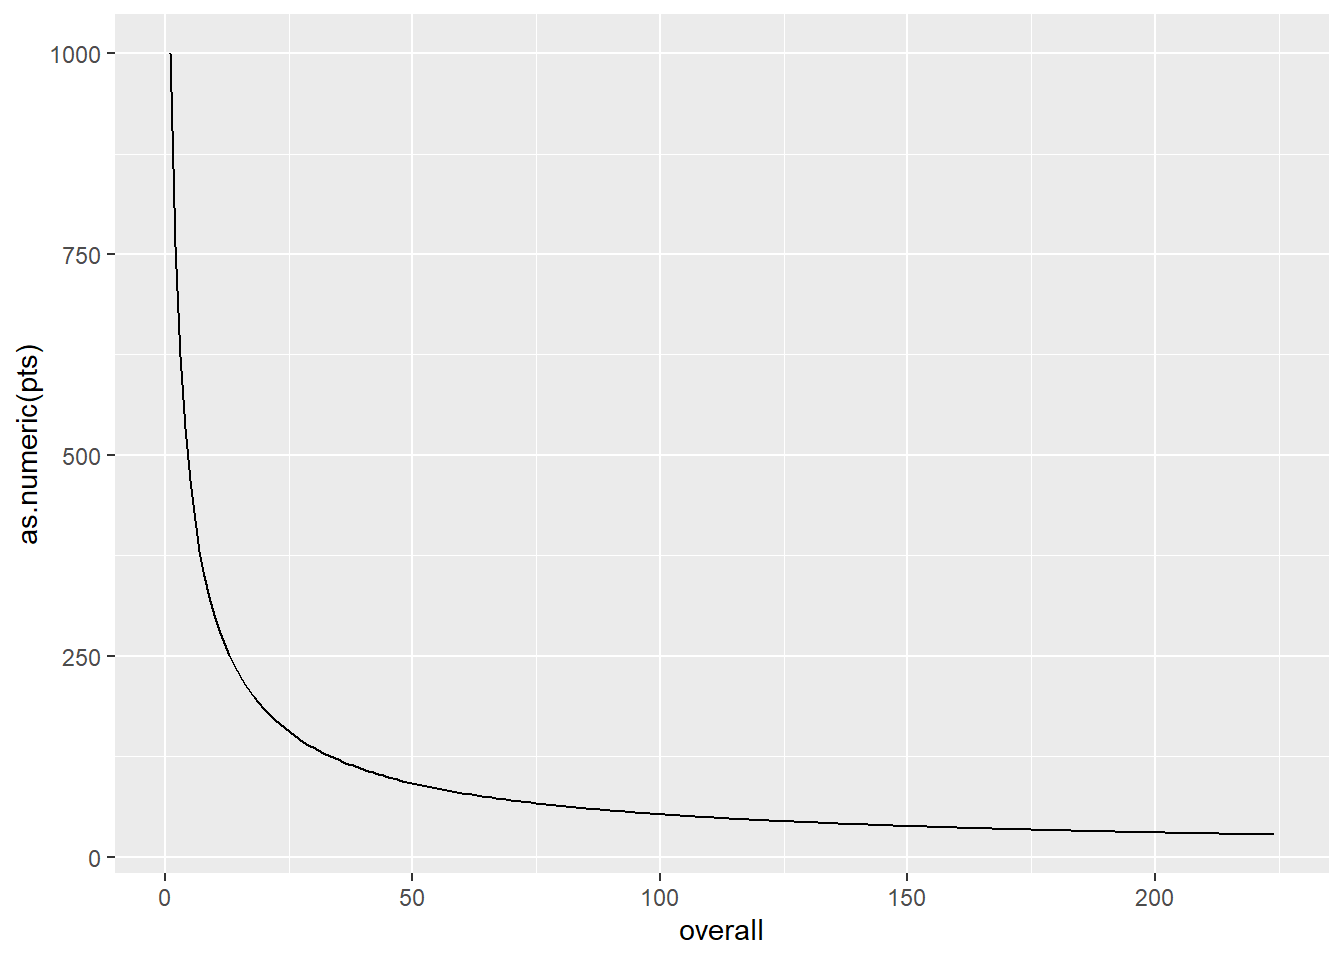
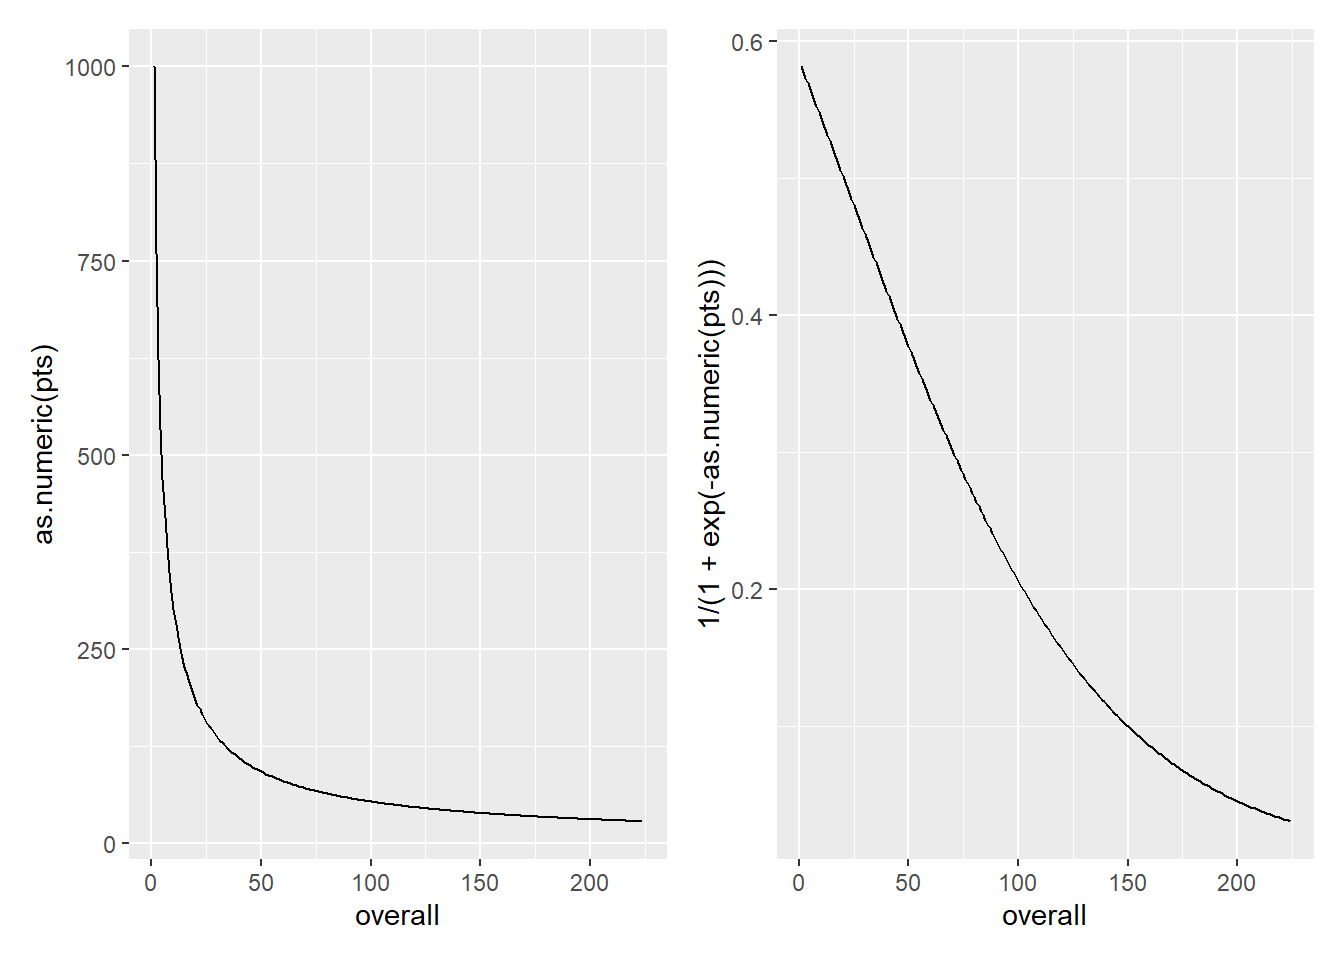
updated communicate

diff --git a/docs/communicate.html b/docs/communicate.html
@@ -103,6 +103,22 @@ pre > code.sourceCode > span > a:first-child::before { text-decoration: underlin
     "search-label": "Search"
   }
 }</script>
+<script src="site_libs/core-js-2.5.3/shim.min.js"></script>
+
+<script src="site_libs/react-18.2.0/react.min.js"></script>
+
+<script src="site_libs/react-18.2.0/react-dom.min.js"></script>
+
+<script src="site_libs/reactwidget-2.0.0/react-tools.js"></script>
+
+<link href="site_libs/htmltools-fill-0.5.8.1/fill.css" rel="stylesheet">
+
+<script src="site_libs/htmlwidgets-1.6.4/htmlwidgets.js"></script>
+
+<link href="site_libs/reactable-0.4.4/reactable.css" rel="stylesheet">
+
+<script src="site_libs/reactable-binding-0.4.4/reactable.js"></script>
+
 
 
 </head>
@@ -208,6 +224,7 @@ pre > code.sourceCode > span > a:first-child::before { text-decoration: underlin
   <li><a href="#setup" id="toc-setup" class="nav-link active" data-scroll-target="#setup"><span class="header-section-number">8.1</span> Setup</a></li>
   <li><a href="#shiny-apps" id="toc-shiny-apps" class="nav-link" data-scroll-target="#shiny-apps"><span class="header-section-number">8.2</span> Shiny Apps</a></li>
   <li><a href="#summary-of-results" id="toc-summary-of-results" class="nav-link" data-scroll-target="#summary-of-results"><span class="header-section-number">8.3</span> Summary of Results</a></li>
+  <li><a href="#things-to-do" id="toc-things-to-do" class="nav-link" data-scroll-target="#things-to-do"><span class="header-section-number">8.4</span> Things to do:</a></li>
   </ul>
 </nav>
     </div>
@@ -259,6 +276,7 @@ pre > code.sourceCode > span > a:first-child::before { text-decoration: underlin
 <h2 data-number="8.2" class="anchored" data-anchor-id="shiny-apps"><span class="header-section-number">8.2</span> Shiny Apps</h2>
 <p>As mentioned in the Model chapter, there are two shiny apps associated with this project. The first, linked <a href="https://trevsteu.shinyapps.io/nls_model_app/">here</a>, uses non-linear regression to make predictions based on the PS of future picks. If I was advising a team, this is the model I would suggest using. The second app, linked <a href="https://trevsteu.shinyapps.io/logist_model_app/">here</a>, uses logistic regression to make predictions based on the probability of future picks becoming NHL regulars. <u><strong>Disclaimer: adding probabilities in this manner is dubious at best from a statistical perspective,</strong></u> but <code>vetiver</code> does not support <code>nls</code> objects as mentioned in the Model chapter, so I needed to use a model from <code>lm</code> or <code>glm</code>, in order to satisfy many of the the devops requirements for this app.</p>
 <p>The apps differ only in the models they are based on (and their underlying code to access predictions). Thus the instructions for both apps are exactly the same, though the included screenshots are only for the app based on the model fit via non-linear regression.</p>
+<p>3 team trades are incredibly rare in the NHL so they are not directly included in the app, though they could be analyzed by looking at what each team individually receives and gives up (ie look at it in terms of 3 two team trades).</p>
 </section>
 <section id="summary-of-results" class="level2" data-number="8.3">
 <h2 data-number="8.3" class="anchored" data-anchor-id="summary-of-results"><span class="header-section-number">8.3</span> Summary of Results</h2>
@@ -267,7 +285,9 @@ pre > code.sourceCode > span > a:first-child::before { text-decoration: underlin
 <details class="code-fold">
 <summary>Code</summary>
 <div class="sourceCode cell-code" id="cb2"><pre class="sourceCode r code-with-copy"><code class="sourceCode r"><span id="cb2-1"><a href="#cb2-1" aria-hidden="true" tabindex="-1"></a><span class="fu">ggplot</span>(pred_vals_nls, <span class="fu">aes</span>(<span class="at">x =</span> overall, <span class="at">y =</span> <span class="fu">as.numeric</span>(pts))) <span class="sc">+</span> </span>
-<span id="cb2-2"><a href="#cb2-2" aria-hidden="true" tabindex="-1"></a>  <span class="fu">geom_line</span>()</span></code><button title="Copy to Clipboard" class="code-copy-button"><i class="bi"></i></button></pre></div>
+<span id="cb2-2"><a href="#cb2-2" aria-hidden="true" tabindex="-1"></a>  <span class="fu">geom_line</span>() <span class="sc">+</span> </span>
+<span id="cb2-3"><a href="#cb2-3" aria-hidden="true" tabindex="-1"></a><span class="fu">ggplot</span>(pred_vals_logist, <span class="fu">aes</span>(<span class="at">x =</span> overall, <span class="at">y =</span> <span class="dv">1</span><span class="sc">/</span>(<span class="dv">1</span><span class="sc">+</span><span class="fu">exp</span>(<span class="sc">-</span><span class="fu">as.numeric</span>(pts))))) <span class="sc">+</span> </span>
+<span id="cb2-4"><a href="#cb2-4" aria-hidden="true" tabindex="-1"></a>  <span class="fu">geom_line</span>()</span></code><button title="Copy to Clipboard" class="code-copy-button"><i class="bi"></i></button></pre></div>
 </details>
 <div class="cell-output-display">
 <div>
@@ -276,74 +296,38 @@ pre > code.sourceCode > span > a:first-child::before { text-decoration: underlin
 </figure>
 </div>
 </div>
+</div>
+<p>We also provide a table of all predicted pick values based on the models.</p>
+<div class="cell">
 <details class="code-fold">
 <summary>Code</summary>
-<div class="sourceCode cell-code" id="cb3"><pre class="sourceCode r code-with-copy"><code class="sourceCode r"><span id="cb3-1"><a href="#cb3-1" aria-hidden="true" tabindex="-1"></a><span class="fu">ggplot</span>(pred_vals_logist, <span class="fu">aes</span>(<span class="at">x =</span> overall, <span class="at">y =</span> <span class="dv">1</span><span class="sc">/</span>(<span class="dv">1</span><span class="sc">+</span><span class="fu">exp</span>(<span class="sc">-</span><span class="fu">as.numeric</span>(pts))))) <span class="sc">+</span> </span>
-<span id="cb3-2"><a href="#cb3-2" aria-hidden="true" tabindex="-1"></a>  <span class="fu">geom_line</span>()</span></code><button title="Copy to Clipboard" class="code-copy-button"><i class="bi"></i></button></pre></div>
+<div class="sourceCode cell-code" id="cb3"><pre class="sourceCode r code-with-copy"><code class="sourceCode r"><span id="cb3-1"><a href="#cb3-1" aria-hidden="true" tabindex="-1"></a><span class="fu">reactable</span>(<span class="fu">data.frame</span>(<span class="fu">cbind</span>(pred_vals_nls, </span>
+<span id="cb3-2"><a href="#cb3-2" aria-hidden="true" tabindex="-1"></a>                           <span class="dv">1</span><span class="sc">/</span>(<span class="dv">1</span><span class="sc">+</span><span class="fu">exp</span>(<span class="sc">-</span>pred_vals_logist[<span class="dv">2</span>])))))</span></code><button title="Copy to Clipboard" class="code-copy-button"><i class="bi"></i></button></pre></div>
 </details>
 <div class="cell-output-display">
-<div>
-<figure class="figure">
-<p><img src="communicate_files/figure-html/unnamed-chunk-2-2.png" class="img-fluid figure-img" width="672"></p>
-</figure>
+<div class="reactable html-widget html-fill-item" id="htmlwidget-2a28f9ac9c2df5c90699" style="width:auto;height:auto;"></div>
+<script type="application/json" data-for="htmlwidget-2a28f9ac9c2df5c90699">{"x":{"tag":{"name":"Reactable","attribs":{"data":{"overall":[1,2,3,4,5,6,7,8,9,10,11,12,13,14,15,16,17,18,19,20,21,22,23,24,25,26,27,28,29,30,31,32,33,34,35,36,37,38,39,40,41,42,43,44,45,46,47,48,49,50,51,52,53,54,55,56,57,58,59,60,61,62,63,64,65,66,67,68,69,70,71,72,73,74,75,76,77,78,79,80,81,82,83,84,85,86,87,88,89,90,91,92,93,94,95,96,97,98,99,100,101,102,103,104,105,106,107,108,109,110,111,112,113,114,115,116,117,118,119,120,121,122,123,124,125,126,127,128,129,130,131,132,133,134,135,136,137,138,139,140,141,142,143,144,145,146,147,148,149,150,151,152,153,154,155,156,157,158,159,160,161,162,163,164,165,166,167,168,169,170,171,172,173,174,175,176,177,178,179,180,181,182,183,184,185,186,187,188,189,190,191,192,193,194,195,196,197,198,199,200,201,202,203,204,205,206,207,208,209,210,211,212,213,214,215,216,217,218,219,220,221,222,223,224],"pts":[1000.00000003068,759.88263459784,623.422550997806,533.236491832556,468.42533860006,419.245655744476,380.462563554153,348.98431685569,322.855645217064,300.773940333161,281.835015128539,265.389982800151,250.960141303542,238.18402679925,226.78321768851,216.539533444094,207.279408467355,198.862924476837,191.175949484409,184.124397768363,177.629968513428,171.626934749507,166.059690961125,160.880857108363,156.049796401314,151.531444654721,147.295377012536,143.315057444463,139.56723036669,136.031423791417,132.689540740872,129.525521068033,126.525059854933,123.675371590677,120.964991632787,118.383608217804,115.921919647342,113.571512333655,111.324756217301,109.174714722742,107.115066936087,105.140040102918,103.244350876353,101.423154013583,99.671997436675,97.9867827507735,96.363730458103,94.7993492257302,93.2904086637942,91.8339151528763,90.427090327442,89.0673518793576,87.7522963933762,86.4796839668106,85.2474243996743,84.0535647704456,82.8962782371495,81.7738539243813,80.6846877747907,79.6272742588842,78.6001988501997,77.6021311842715,76.6318188296334,75.6880816076109,74.7698064050466,73.8759424305263,73.005496870281,72.1575309048378,71.3311560517805,70.5255308037454,69.739857534085,68.9733796455457,68.2253789398773,67.4951731885622,66.7821138868666,66.0855841751973,65.4049969133358,64.7397928945274,64.0894391876642,63.4534275969183,62.8312732291862,62.2225131606004,61.6267051941707,61.043426701336,60.4722735408582,59.9128590490719,59.3648130960294,58.8277812025549,58.3014237136494,57.7854150240753,57.2794428522999,56.7832075592949,56.296421508976,55.8188084673299,55.3501030375133,54.8900501284229,54.4384044544376,53.9949300642067,53.5593998965297,53.1315953615176,52.7113059453641,52.2983288371838,51.8924685764832,51.4935367199428,51.1013515262793,50.715737658049,50.3365258993355,49.9635528883369,49.59666086394,49.2356974254317,48.8805153045546,48.5309721491723,48.1869303178545,47.8482566847434,47.5148224541021,47.1865029839867,46.8631776185211,46.5447295282845,46.2310455583585,45.9220160836032,45.6175348707643,45.3174989470358,45.021808474727,44.7303666317031,44.4430794972914,44.1598559433618,43.8806075303083,43.6052484076758,43.3336952191901,43.0658670119641,42.8016851496676,42.541073229458,42.2839570024829,42.030264297776,41.7799249493779,41.532870726522,41.2890352667365,41.0483540117195,40.8107641458547,40.5762045372402,40.3446156811114,40.1159396455439,39.890120019331,39.667101861933,39.4468316554029,39.2292572581976,39.0143278607892,38.8019939429933,38.5922072329377,38.384920667599,38.1800883548351,37.9776655368499,37.7776085550259,37.579874816065,37.384422759382,37.1912118256951,37.000202426764,36.8113559162252,36.6246345614793,36.4400015165855,36.257420796121,36.0768572499665,35.8982765389779,35.7216451115095,35.5469301807524,35.3740997028568,35.2031223558052,35.0339675190072,34.8666052535869,34.7010062833359,34.5371419763047,34.3749843270092,34.2145059392266,34.0556800093595,33.8984803103447,33.7428811760874,33.5888574864004,33.4363846524282,33.2854386025396,33.135995768669,32.9880330730924,32.8415279156196,32.6964581611885,32.5528021278471,32.4105385751076,32.2696466926613,32.1301060894389,31.9918967830062,31.8549991892814,31.7193941125631,31.5850627358592,31.451986611504,31.320147652056,31.1895281214636,31.060110626493,30.9318781084059,30.8048138348807,30.6789013921683,30.5541246774742,30.4304678915593,30.307915531553,30.18645238397,30.0660635179258,29.9467342785423,29.8284502805394,29.7111974020046,29.5949617783365,29.4797297963547,29.3654880885731,29.2522235276284,29.1399232208621,29.0285745050483,28.9181649412646,28.8086823099,28.7001146057977,28.5924500335255,28.4856770027736,28.379784123872,28.2747602034267,28.1705942400699,28.0672754203206,27.9647931145527,27.8631368730668,27.7622964222636],"pts.1":[0.581729929380447,0.577598502615973,0.573456189689531,0.569303545292336,0.565141129863313,0.560969509297288,0.556789254646768,0.552600941817649,0.548405151259165,0.544202467648437,0.539993479569976,0.535778779190498,0.531558961929437,0.527334626125535,0.523106372699903,0.518874804815954,0.514640527536611,0.510404147479208,0.506166272468495,0.501927511188171,0.497688472831373,0.493449766750534,0.489212002107055,0.484975787521209,0.480741730722699,0.47651043820231,0.472282514865069,0.46805856368534,0.463839185364256,0.459624977989924,0.45541653670079,0.451214453352561,0.4470193161891,0.442831709517647,0.438652213388765,0.434481403281361,0.430319849793148,0.426168118336883,0.422026768842721,0.417896355466996,0.41377742630775,0.409670523127285,0.405576181082038,0.401494928460032,0.397427286426156,0.393373768775514,0.389334881695063,0.385311123533746,0.381302984581298,0.377310946855923,0.373335483900971,0.36937706059078,0.36543613294579,0.36151314795705,0.357608543420202,0.353722747779022,0.349856179978576,0.346009249328039,0.342182355373196,0.338375887778649,0.334590226219716,0.330825740284017,0.327082789382697,0.323361722671263,0.319662878979944,0.315986586753535,0.3123331640006,0.30870291825197,0.30509614652839,0.301513135317222,0.297954160558045,0.294419487637016,0.290909371389837,0.287424056113156,0.283963775584239,0.280528753088711,0.277119201456195,0.273735323103633,0.270377310086095,0.267045344154864,0.263739596822566,0.260460229435142,0.257207393250424,0.253981229523076,0.250781869595691,0.247609434995776,0.244464037538404,0.241345779434293,0.238254753403055,0.23519104279138,0.232154721695914,0.229145855090577,0.226164498958085,0.22321070042543,0.220284497903075,0.217385921227627,0.214514991807752,0.211671722773085,0.208856119125921,0.206068177895441,0.203307888294256,0.200575231877043,0.197870182701056,0.195192707488297,0.192542765789139,0.189920310147192,0.187325286265216,0.184757633171881,0.182217283389191,0.179704163100377,0.177218192318089,0.174759285052704,0.172327349480593,0.169922288112172,0.167543997959586,0.165192370703878,0.162867292861491,0.160568645949964,0.158296306652694,0.156050146982633,0.15383003444479,0.151635832197438,0.149467399211898,0.147324590430808,0.145207256924768,0.143115246047278,0.141048401587865,0.139006563923333,0.136989570167049,0.13499725431619,0.133029447396889,0.13108597760722,0.12916667045796,0.127271348911067,0.12539983351585,0.123551942542758,0.121727492114774,0.119926296336362,0.118148167419948,0.116392915809896,0.11466035030397,0.112950278172254,0.111262505273516,0.109596836169004,0.107953074233674,0.106331021764823,0.104730480088152,0.10315124966124,0.10159313017444,0.100055920649201,0.0985394195338297,0.0970434247966932,0.0955677340168878,0.0941121444723805,0.0926764532256465,0.0912604572068191,0.0898639532943757,0.0884867383933819,0.0871286095113194,0.0857893638315238,0.0844687987842601,0.0831667121154649,0.0818829019531867,0.0806171668717542,0.0793693059537061,0.078139118849516,0.0769264058351455,0.0757309678674626,0.0745526066375586,0.0733911246220023,0.0722463251320666,0.0711180123609654,0.0700059914291396,0.068910068427628,0.0678300504595638,0.0667657456798339,0.0657169633329397,0.0646835137890995,0.0636652085786288,0.0626618604246407,0.0616732832741021,0.0606992923272861,0.0597397040656593,0.0587943362782409,0.0578630080864736,0.0569455399676427,0.0560417537768825,0.0551514727678058,0.0542745216117947,0.0534107264159888,0.0525599147400073,0.0517219156114406,0.050896559540147,0.0500836785313893,0.049283106097846,0.0484946772705312,0.0477182286086559,0.0469535982084651,0.0462006257110816,0.0454591523093899,0.0447290207539907,0.0440100753582566,0.0433021620025206,0.0426051281374256,0.0419188227864649,0.0412430965477427,0.0405778015949805,0.0399227916778006,0.0392779221213091,0.0386430498250085,0.038018033261063,0.0374027324719431,0.0367970090674736,0.0362007262213087,0.0356137486668577,0.0350359426926853,0.0344671761374061,0.0339073183840985,0.0333562403542563,0.0328138145012999,0.0322799148036674,0.0317544167575045,0.0312371973689725,0.0307281351461935]},"columns":[{"id":"overall","name":"overall","type":"numeric"},{"id":"pts","name":"pts","type":"list"},{"id":"pts.1","name":"pts.1","type":"numeric"}],"dataKey":"205a73d23d31974f3f9edfda6350f22d"},"children":[]},"class":"reactR_markup"},"evals":[],"jsHooks":[]}</script>
 </div>
 </div>
-</div>
-<p>This is a placeholder for my communicate chapter and will eventually have plots, tables, etc.</p>
-<p>This chapter will contain my table, graph, value + pick functions, and instructions for and a link to my shiny app. In my RShiny app, I plan to allow users to enter potential trades, click “evaluate”, and then see the point gain/loss. Additionally, I’d like to put the point difference into context “this is equivalent to team A giving up the 174th overall pick”.</p>
-<p>Other things I need to do:</p>
+</section>
+<section id="things-to-do" class="level2" data-number="8.4">
+<h2 data-number="8.4" class="anchored" data-anchor-id="things-to-do"><span class="header-section-number">8.4</span> Things to do:</h2>
+<ul>
+<li><p>Add logging to app</p></li>
+<li><p>Github Actions</p></li>
+<li><p>Add references to .bib file</p></li>
+</ul>
+<!-- -->
 <ul>
 <li><p>Read thru instructions to see if I’m missing anything</p></li>
 <li><p>Give all plots titles and labels</p></li>
 <li><p>Remove unnecessary library calls</p></li>
-<li><p>Make sure everything flows logically</p></li>
-<li><p>Make notation consistent</p></li>
+<li><p>Make sure everything flows logically, make notation consistent</p></li>
 <li><p>make sure links work, make sure links are in bibliography</p></li>
-<li><p>Make code more efficient, add comments to it</p></li>
+<li><p>Add comments to code</p></li>
 <li><p>Spell check</p></li>
-<li><p>Add references to .bib file</p></li>
 <li><p>remove unnecessary files from github (ie holding_file, model2, etc).</p></li>
 </ul>
-<p>3 team trades are incredibly rare in the NHL so they are not directly included in the app, though they could be analyzed by looking at what each team individually receives and gives up (ie look at it in terms of 3 two team trades)</p>
-<p>This is all the code that I think might be useful but that I currently don’t know what it is for.</p>
-<div class="cell">
-<details class="code-fold">
-<summary>Code</summary>
-<div class="sourceCode cell-code" id="cb4"><pre class="sourceCode r code-with-copy"><code class="sourceCode r"><span id="cb4-1"><a href="#cb4-1" aria-hidden="true" tabindex="-1"></a><span class="co"># I couldn't find any info online about the error I was getting so I used </span></span>
-<span id="cb4-2"><a href="#cb4-2" aria-hidden="true" tabindex="-1"></a><span class="co">#   ChatGPT, it turns out vetiver does not work with nls objects, so for</span></span>
-<span id="cb4-3"><a href="#cb4-3" aria-hidden="true" tabindex="-1"></a><span class="co">#   now I'm using one of the linear models</span></span>
-<span id="cb4-4"><a href="#cb4-4" aria-hidden="true" tabindex="-1"></a></span>
-<span id="cb4-5"><a href="#cb4-5" aria-hidden="true" tabindex="-1"></a><span class="co"># v &lt;- vetiver_model(nls_scal_ps, "ps_value_model")</span></span>
-<span id="cb4-6"><a href="#cb4-6" aria-hidden="true" tabindex="-1"></a></span>
-<span id="cb4-7"><a href="#cb4-7" aria-hidden="true" tabindex="-1"></a>v <span class="ot">&lt;-</span> <span class="fu">vetiver_model</span>(lin_models[[<span class="dv">1</span>]], <span class="st">"lm_test"</span>)</span>
-<span id="cb4-8"><a href="#cb4-8" aria-hidden="true" tabindex="-1"></a></span>
-<span id="cb4-9"><a href="#cb4-9" aria-hidden="true" tabindex="-1"></a>model_board <span class="ot">&lt;-</span> <span class="fu">board_folder</span>(<span class="st">"/data/model"</span>)</span>
-<span id="cb4-10"><a href="#cb4-10" aria-hidden="true" tabindex="-1"></a>model_board <span class="sc">|&gt;</span></span>
-<span id="cb4-11"><a href="#cb4-11" aria-hidden="true" tabindex="-1"></a>  <span class="fu">vetiver_pin_write</span>(v)</span>
-<span id="cb4-12"><a href="#cb4-12" aria-hidden="true" tabindex="-1"></a></span>
-<span id="cb4-13"><a href="#cb4-13" aria-hidden="true" tabindex="-1"></a>model_board <span class="sc">|&gt;</span> </span>
-<span id="cb4-14"><a href="#cb4-14" aria-hidden="true" tabindex="-1"></a>  <span class="fu">vetiver_pin_read</span>(<span class="st">"lm_test"</span>)</span>
-<span id="cb4-15"><a href="#cb4-15" aria-hidden="true" tabindex="-1"></a></span>
-<span id="cb4-16"><a href="#cb4-16" aria-hidden="true" tabindex="-1"></a></span>
-<span id="cb4-17"><a href="#cb4-17" aria-hidden="true" tabindex="-1"></a></span>
-<span id="cb4-18"><a href="#cb4-18" aria-hidden="true" tabindex="-1"></a></span>
-<span id="cb4-19"><a href="#cb4-19" aria-hidden="true" tabindex="-1"></a>test_lm <span class="ot">&lt;-</span> <span class="fu">lm</span>(ps <span class="sc">~</span> overall, <span class="at">data =</span> all_data_adj)</span>
-<span id="cb4-20"><a href="#cb4-20" aria-hidden="true" tabindex="-1"></a>v <span class="ot">&lt;-</span> <span class="fu">vetiver_model</span>(test_lm, <span class="st">"test_lm"</span>)</span>
-<span id="cb4-21"><a href="#cb4-21" aria-hidden="true" tabindex="-1"></a></span>
-<span id="cb4-22"><a href="#cb4-22" aria-hidden="true" tabindex="-1"></a></span>
-<span id="cb4-23"><a href="#cb4-23" aria-hidden="true" tabindex="-1"></a></span>
-<span id="cb4-24"><a href="#cb4-24" aria-hidden="true" tabindex="-1"></a></span>
-<span id="cb4-25"><a href="#cb4-25" aria-hidden="true" tabindex="-1"></a>model_board <span class="ot">&lt;-</span> <span class="fu">board_temp</span>(<span class="at">versioned =</span> <span class="cn">TRUE</span>)</span>
-<span id="cb4-26"><a href="#cb4-26" aria-hidden="true" tabindex="-1"></a>model_board <span class="sc">|&gt;</span> </span>
-<span id="cb4-27"><a href="#cb4-27" aria-hidden="true" tabindex="-1"></a>  <span class="fu">vetiver_pin_write</span>(v)</span>
-<span id="cb4-28"><a href="#cb4-28" aria-hidden="true" tabindex="-1"></a></span>
-<span id="cb4-29"><a href="#cb4-29" aria-hidden="true" tabindex="-1"></a></span>
-<span id="cb4-30"><a href="#cb4-30" aria-hidden="true" tabindex="-1"></a></span>
-<span id="cb4-31"><a href="#cb4-31" aria-hidden="true" tabindex="-1"></a><span class="fu">pr</span>() <span class="sc">|&gt;</span></span>
-<span id="cb4-32"><a href="#cb4-32" aria-hidden="true" tabindex="-1"></a>  <span class="fu">vetiver_api</span>(v) <span class="sc">|&gt;</span> </span>
-<span id="cb4-33"><a href="#cb4-33" aria-hidden="true" tabindex="-1"></a>  <span class="fu">pr_run</span>(<span class="at">port =</span> <span class="dv">8080</span>)</span></code><button title="Copy to Clipboard" class="code-copy-button"><i class="bi"></i></button></pre></div>
-</details>
-</div>
 
 
 </section>
